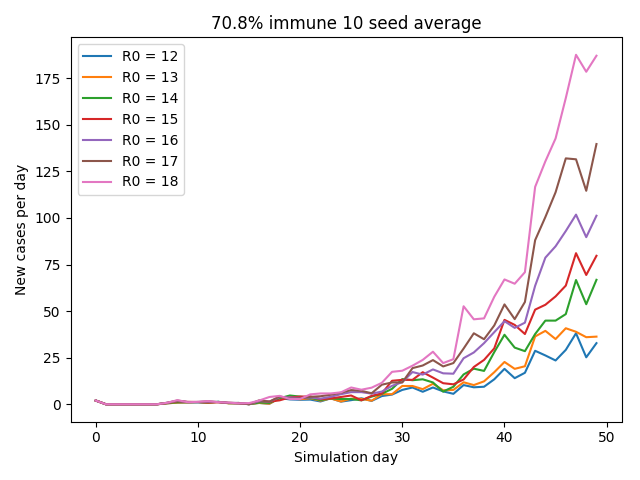
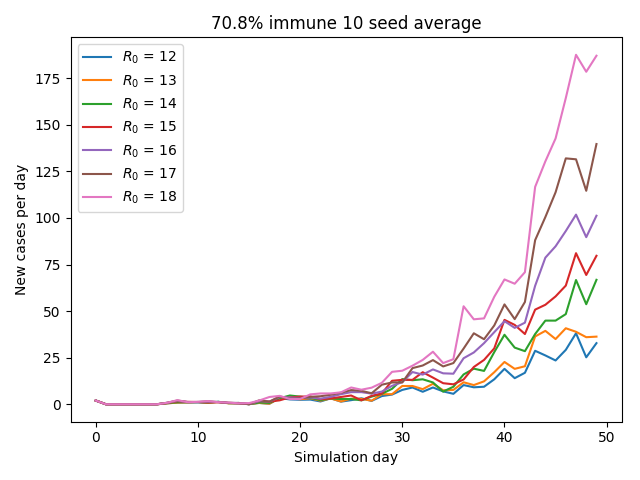
Updated plot

Changed region(s): [[0.125, 0.0938, 0.2812, 0.4375], [0.125, 0.0938, 0.1562, 0.125]]

diff --git a/new_sim_and_plot.py b/new_sim_and_plot.py
@@ -194,7 +194,7 @@ def plotImmAvgMultiR0(outputPrefix, vacRate=None, immRate=None, r0s=None,
                 avg_elem /= sim_count
                 avg.append(avg_elem)
 
-            legend.append("R0 = " + str(r0))
+            legend.append("$R_0$ = " + str(r0))
             plt.plot(days, avg)
 
         plt.xlabel("Simulation day")
@@ -211,9 +211,9 @@ if __name__ == "__main__":
     rng_seeds = range(1, 11)
     r0s = range(12, 19)
 
-    for lvl in immunityLevels:
+    # for lvl in immunityLevels:
     # for r0 in r0s:
-        for seed in rng_seeds:
-            runSim("AVG", immRate=lvl, rngSeed=seed)
-    # plotImmAvgMultiR0("AVG", immRate=70.8, r0s=r0s,  seeds=rng_seeds)
-    plotImmAvgAll("AVG", immRates=immunityLevels,  seeds=rng_seeds)
+    #     for seed in rng_seeds:
+    #         runSim("AVG", immRate=lvl, rngSeed=seed)
+    plotImmAvgMultiR0("AVG", immRate=70.8, r0s=r0s,  seeds=rng_seeds)
+    # plotImmAvgAll("AVG", immRates=immunityLevels,  seeds=rng_seeds)
